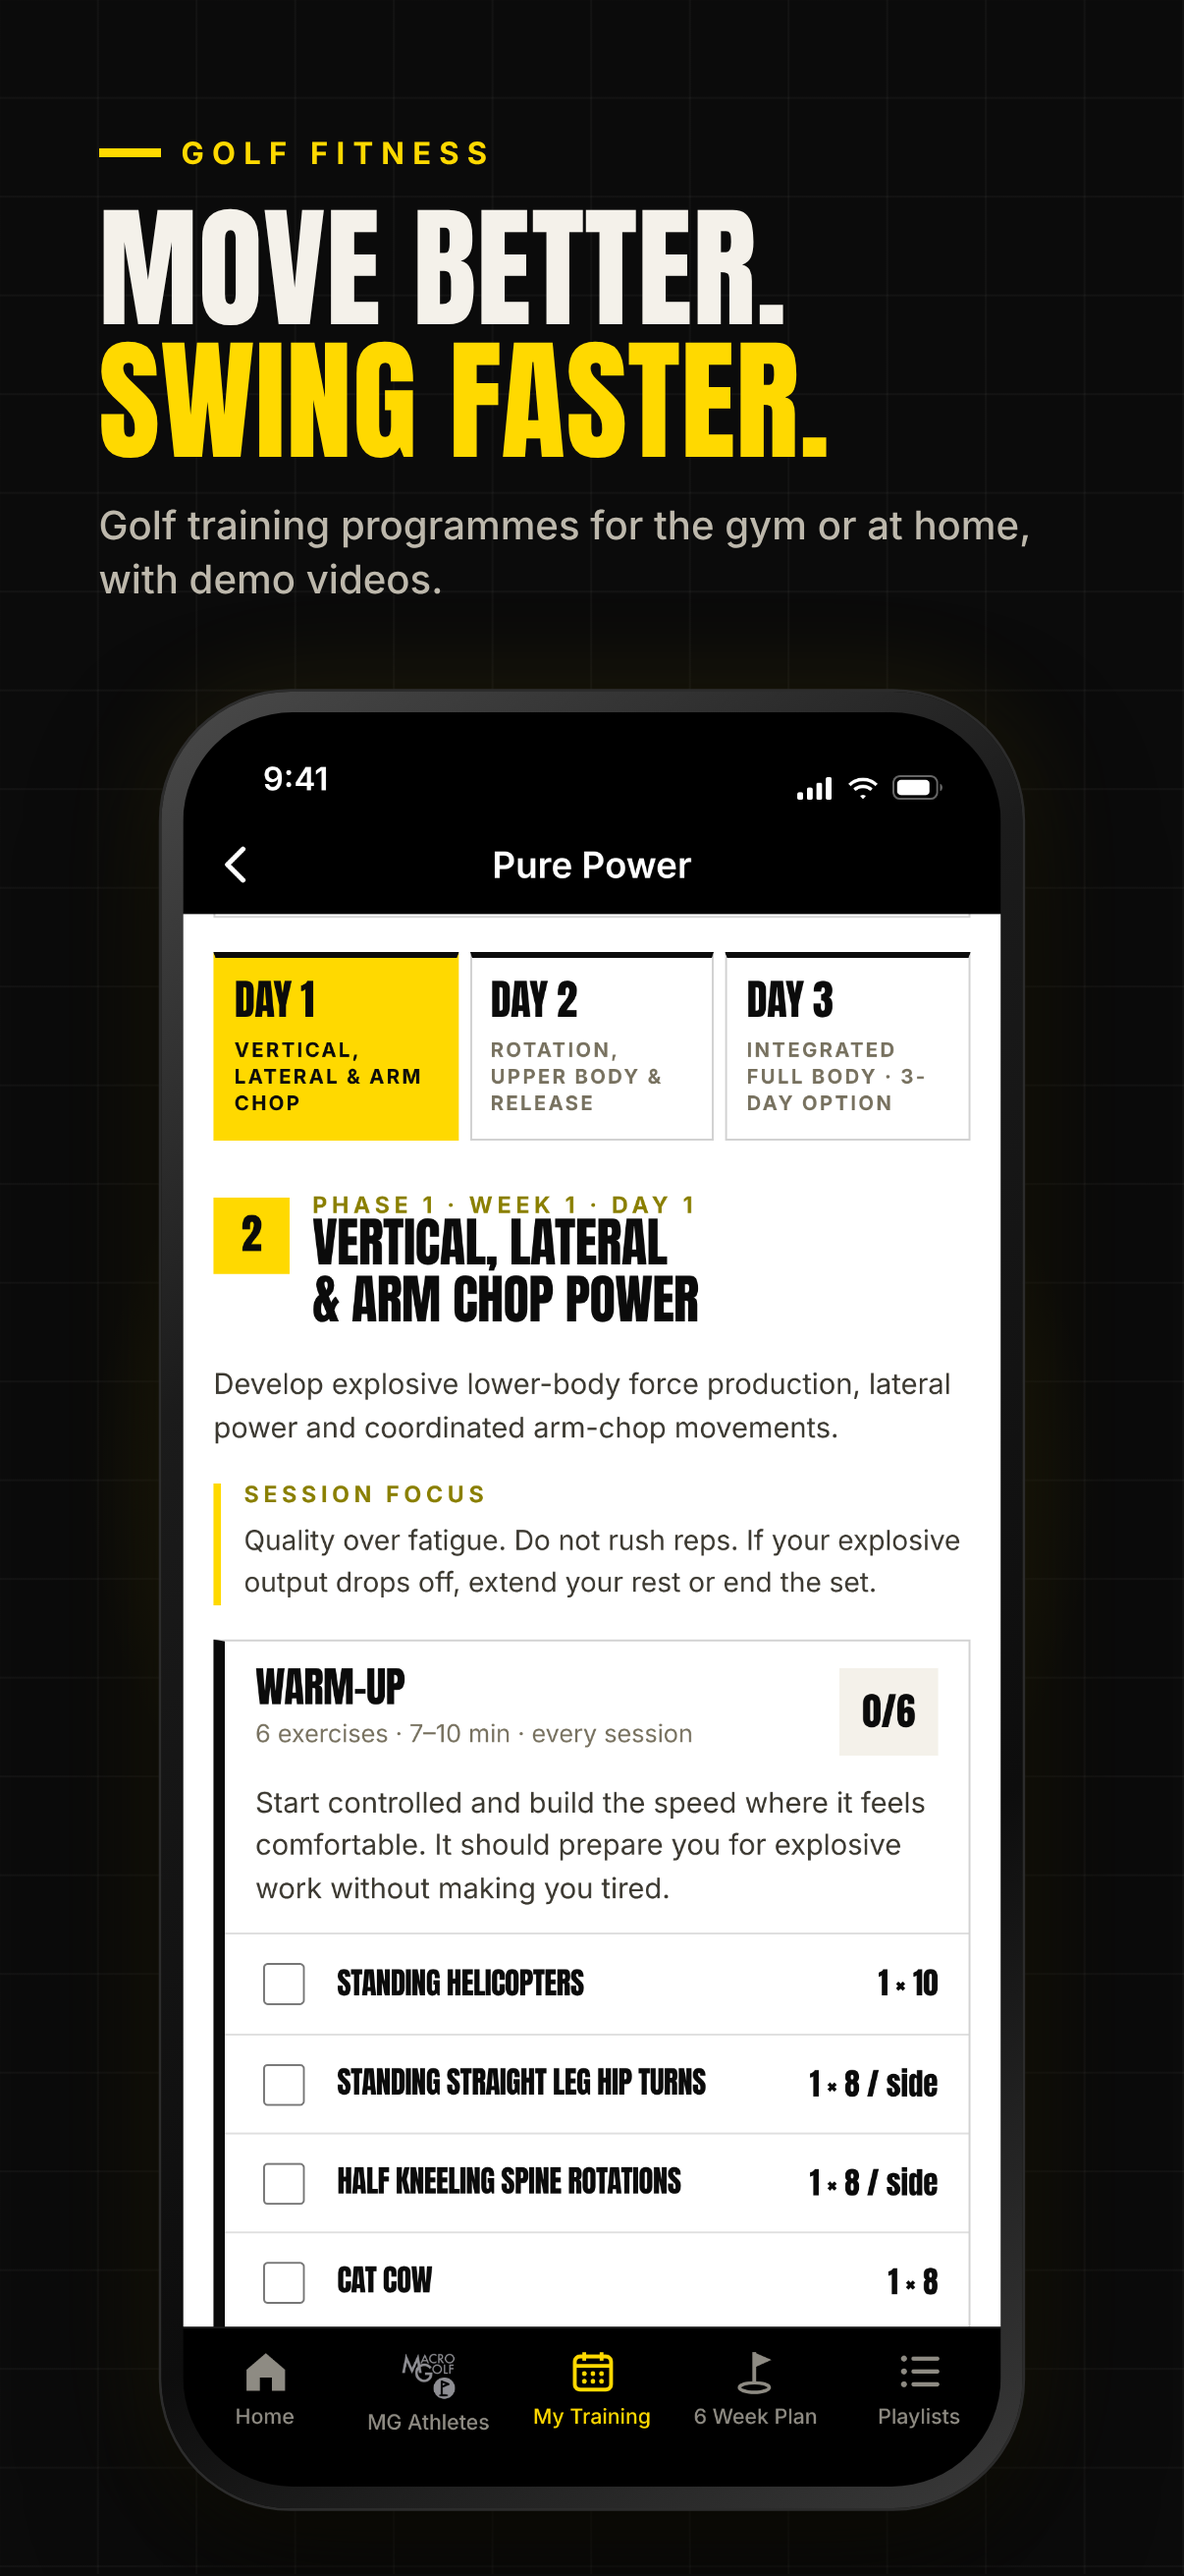
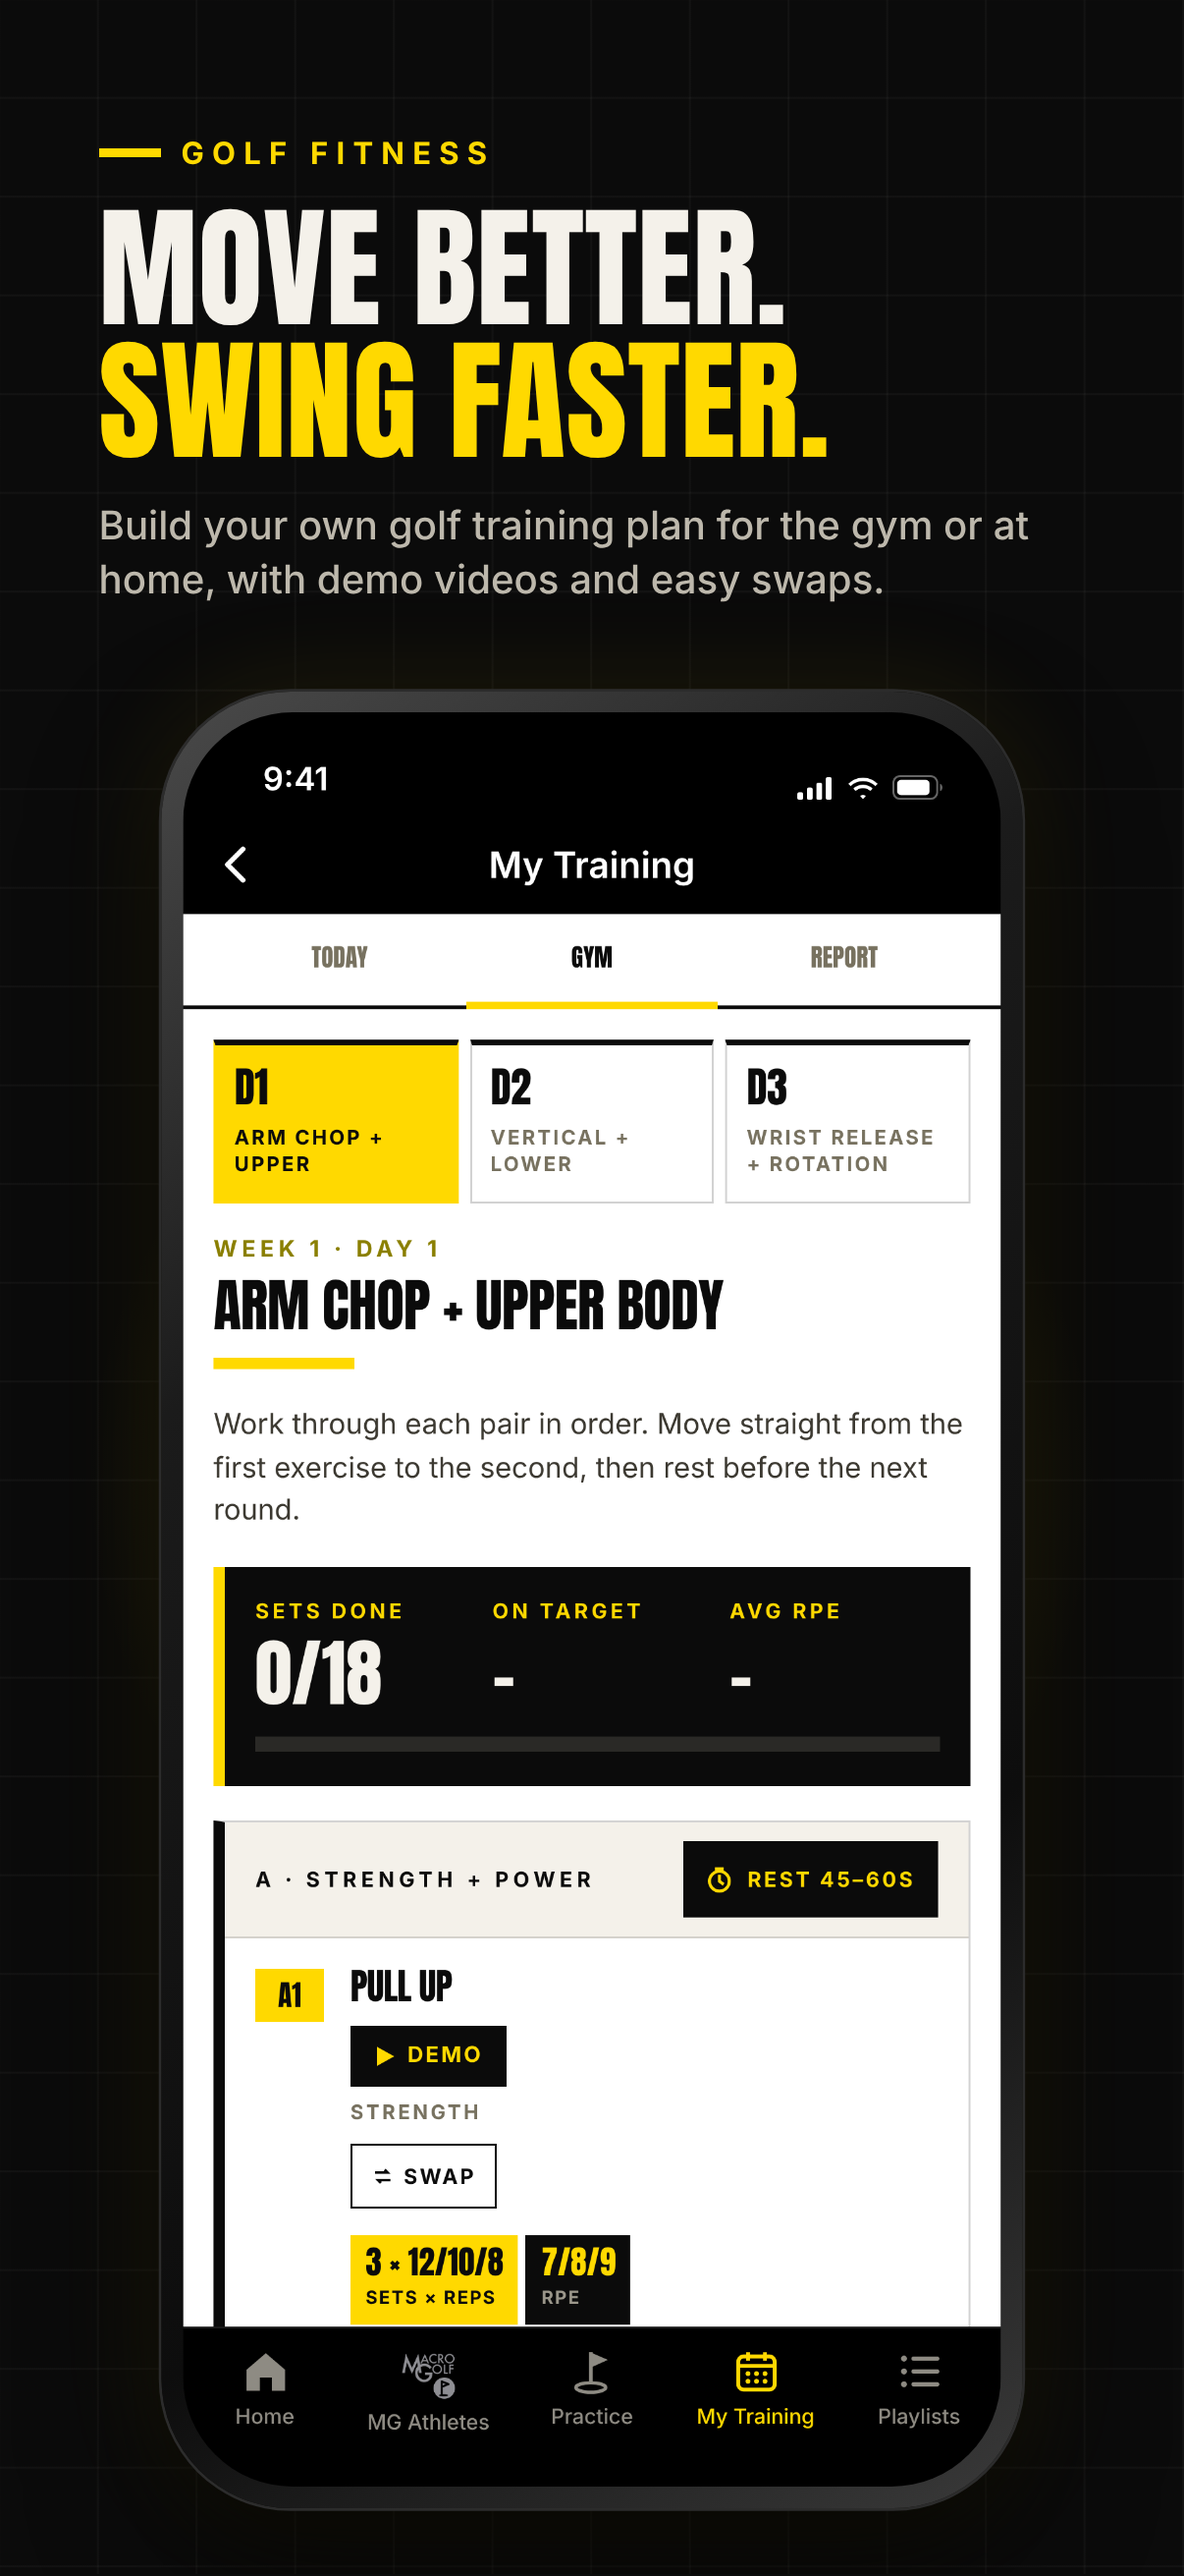
App Store pack update 2 (Joe's list): Build My Plan on slide 8, live tab bar (Practice), dark screens on slides 1 and 3; new iPad 2048x2732 and Android 10in 1536x2048 sets, Android feature graphic 1024x500
Claude-Session: https://claude.ai/code/session_01DkSaFspKHERjZZRZYzDpGf

diff --git a/docs/for-joe-app-store-pack.md b/docs/for-joe-app-store-pack.md
@@ -1,20 +1,27 @@
-# For Joe's Claude: App Store pack ready for Joe to upload (from Jack, 13 Nov)
+# For Joe's Claude: App Store pack, update 2 (from Jack's Claude, 13 Nov, done as Joe asked)
 
-Jack says VidApp shows no new App Store pictures. That's expected: the App Store section is Joe-only, so no Claude uploaded anything.
-Everything is ready in `assets/app-store/`. Please tell Joe and walk him through the upload in VidApp (App Store, then iOS).
+Everything is in `assets/app-store/` on this branch (`app-store-pack`). Please upload in VidApp (Joe only), then log it and delete this file.
 
-- `screenshots-6.9in-1320x2868/` and `screenshots-6.3in-1206x2622/`: 8 screenshots each, in order.
-  1. Find where you lose shots
-  2. **Watch your game climb** (new: a big rising strokes gained trend, +3.5 shots a round since June)
-  3. A 6 week plan from your tests
-  4. Practice games that keep score
-  5. Climb the leaderboard
-  6. Keep your streak alive
-  7. See your game improve
-  8. Move better, swing faster
-- `macro-golf-app-preview-886x1920.mp4`: the app preview video.
-- `listing.txt`: name, subtitle, description and keywords.
-- `overview.png`: all 8 side by side, for a quick look.
+## What changed
+- **Slide 8 'Move better, swing faster'** now shows **Build My Plan** (My Training, Week 1 · Day 1 'Arm chop + upper body', with Demo and Swap). No more Pure Power. New line: "Build your own golf training plan for the gym or at home, with demo videos and easy swaps."
+- **Bottom tab bar on every slide** now reads **Home · MG Athletes · Practice · My Training · Playlists** (the live order). The plan screen's header is 'Your Practice Plan'.
+- **Slides 1 and 3**: no white surround; the screen is dark edge to edge.
+- The screens also show today's day-streak bar and the H2H / Leaders / My PBs row, as the live app does.
 
-Jack also has the same pack as one zip (macro-golf-app-store.zip) if Joe would rather have it that way.
-When Joe has uploaded, log it in WORKLOG.md and delete this file.
+## Files (replace the old ones; same names and order)
+| VidApp slot | Folder | Size | Count |
+|---|---|---|---|
+| iOS iPhone X | `vidapp-iphone-x-1242x2688/` | 1242x2688 JPG | 8 |
+| iOS iPhone 8 | `vidapp-iphone-8-1242x2208/` | 1242x2208 JPG | 8 |
+| iOS iPad (new) | `vidapp-ipad-2048x2732/` | 2048x2732 JPG | 7 |
+| Android 10-inch tablet (new) | `android-tablet-10in-1536x2048/` | 1536x2048 JPG | 7 |
+| Android feature graphic (new) | `android-feature-graphic-1024x500.jpg` | 1024x500 JPG | 1 |
+| App Store Connect sizes (if ever needed) | `screenshots-6.9in-1320x2868/`, `screenshots-6.3in-1206x2622/` | PNG | 8 each |
+
+The tablet sets are the app captured at tablet width in a tablet frame (not an iPhone in a frame, which Apple can reject on iPad). They skip slide 2 'Watch your game climb' to fit 7 slots; slide 7 'See your game improve' carries the rising trend.
+
+## Website pictures
+`assets/web/phone-*.webp` are remade from the fixed slides (phone only, transparent, 560 px wide) and are on `main` (commit in WORKLOG). Re-pin /app and /download to pick them up.
+
+## Not changed
+`macro-golf-app-preview-886x1920.mp4` and `overview.png` still show the old '6 Week Plan' tab. Jack's Claude can remake them if Joe wants.
